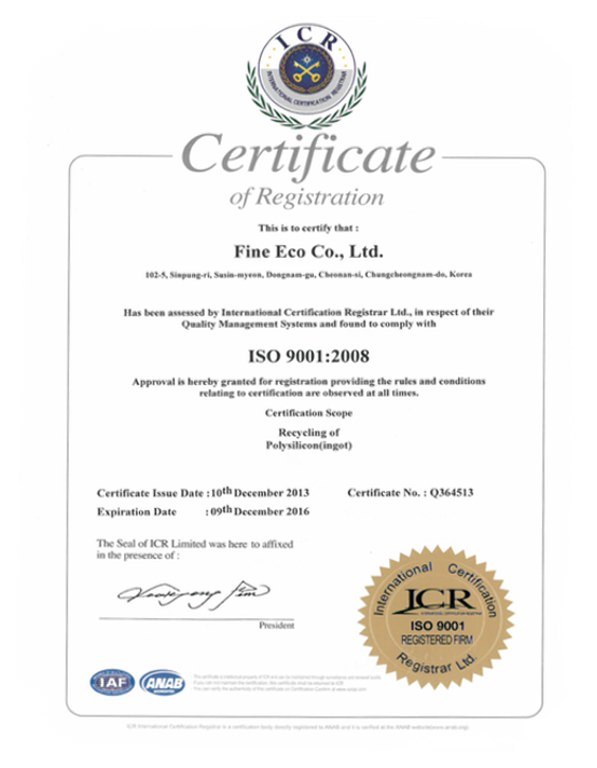
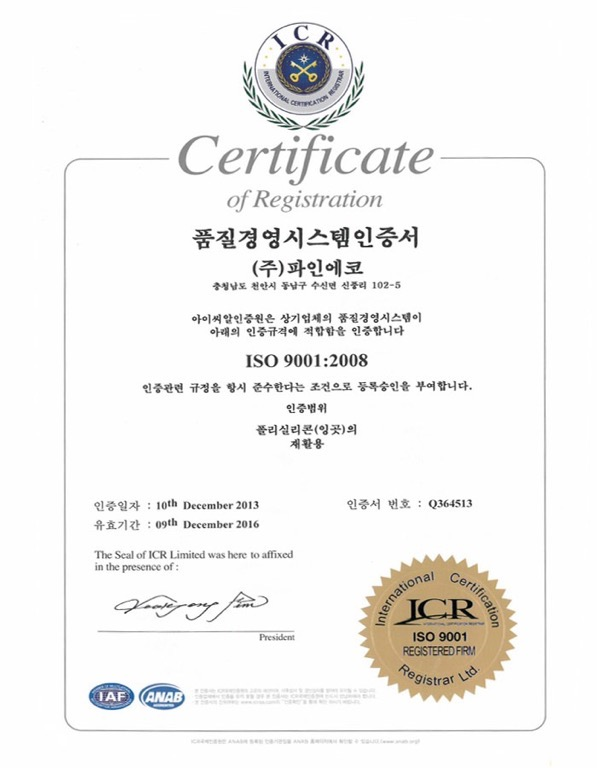
update about iso images

Changed region(s): [[0.1206, 0.0312, 0.8141, 0.5938], [0.0905, 0.2188, 0.9347, 0.9688], [0.1508, 0.625, 0.5126, 0.8438]]

diff --git a/app/about.html b/app/about.html
@@ -131,15 +131,15 @@
           </div>
 
           <div class="col-sm-4">
-            <a href="images/iso14001-en.jpg" data-toggle="lightbox">
-              <img class="img-responsive center-block" src="images/iso14001-en.jpg" alt="ISO 14001 Certification">
+            <a class="iso14001-wrapper" href="images/iso14001-en.jpg" data-toggle="lightbox">
+              <img class="iso14001 img-responsive center-block" src="images/iso14001-en.jpg" alt="ISO 14001 Certification">
             </a>
             <p class="text-center description" data-i18n="certification.iso14001"></p>
           </div>
 
           <div class="col-sm-4">
-            <a href="images/iso9001-en.jpg" data-toggle="lightbox">
-              <img class="img-responsive center-block" src="images/iso9001-en.jpg" alt="ISO 9001 Certification">
+            <a class="iso9001-wrapper" href="images/iso9001-en.jpg" data-toggle="lightbox">
+              <img class="iso9001 img-responsive center-block" src="images/iso9001-en.jpg" alt="ISO 9001 Certification">
             </a>
             <p class="text-center description" data-i18n="certification.iso9001"></p>
           </div>

diff --git a/app/scripts/about.js b/app/scripts/about.js
@@ -12,8 +12,16 @@ var changeStyleByLng = function() {
   var currentLng = i18n.lng();
   if (currentLng === 'en-US') {
     $('.name').attr('class', 'name lng-en');
+    $('.iso9001').attr('src', 'images/iso9001-en.jpg');
+    $('.iso9001-wrapper').attr('href', 'images/iso9001-en.jpg');
+    $('.iso14001').attr('src', 'images/iso14001-en.jpg');
+    $('.iso14001-wrapper').attr('href', 'images/iso14001-en.jpg');
   } else if (currentLng === 'ko-KR') {
     $('.name').attr('class', 'name lng-ko');
+    $('.iso9001').attr('src', 'images/iso9001-ko.jpg');
+    $('.iso9001-wrapper').attr('href', 'images/iso9001-ko.jpg');
+    $('.iso14001').attr('src', 'images/iso14001-ko.jpg');
+    $('.iso14001-wrapper').attr('href', 'images/iso14001-ko.jpg');
   } else {
     return false;
   }
